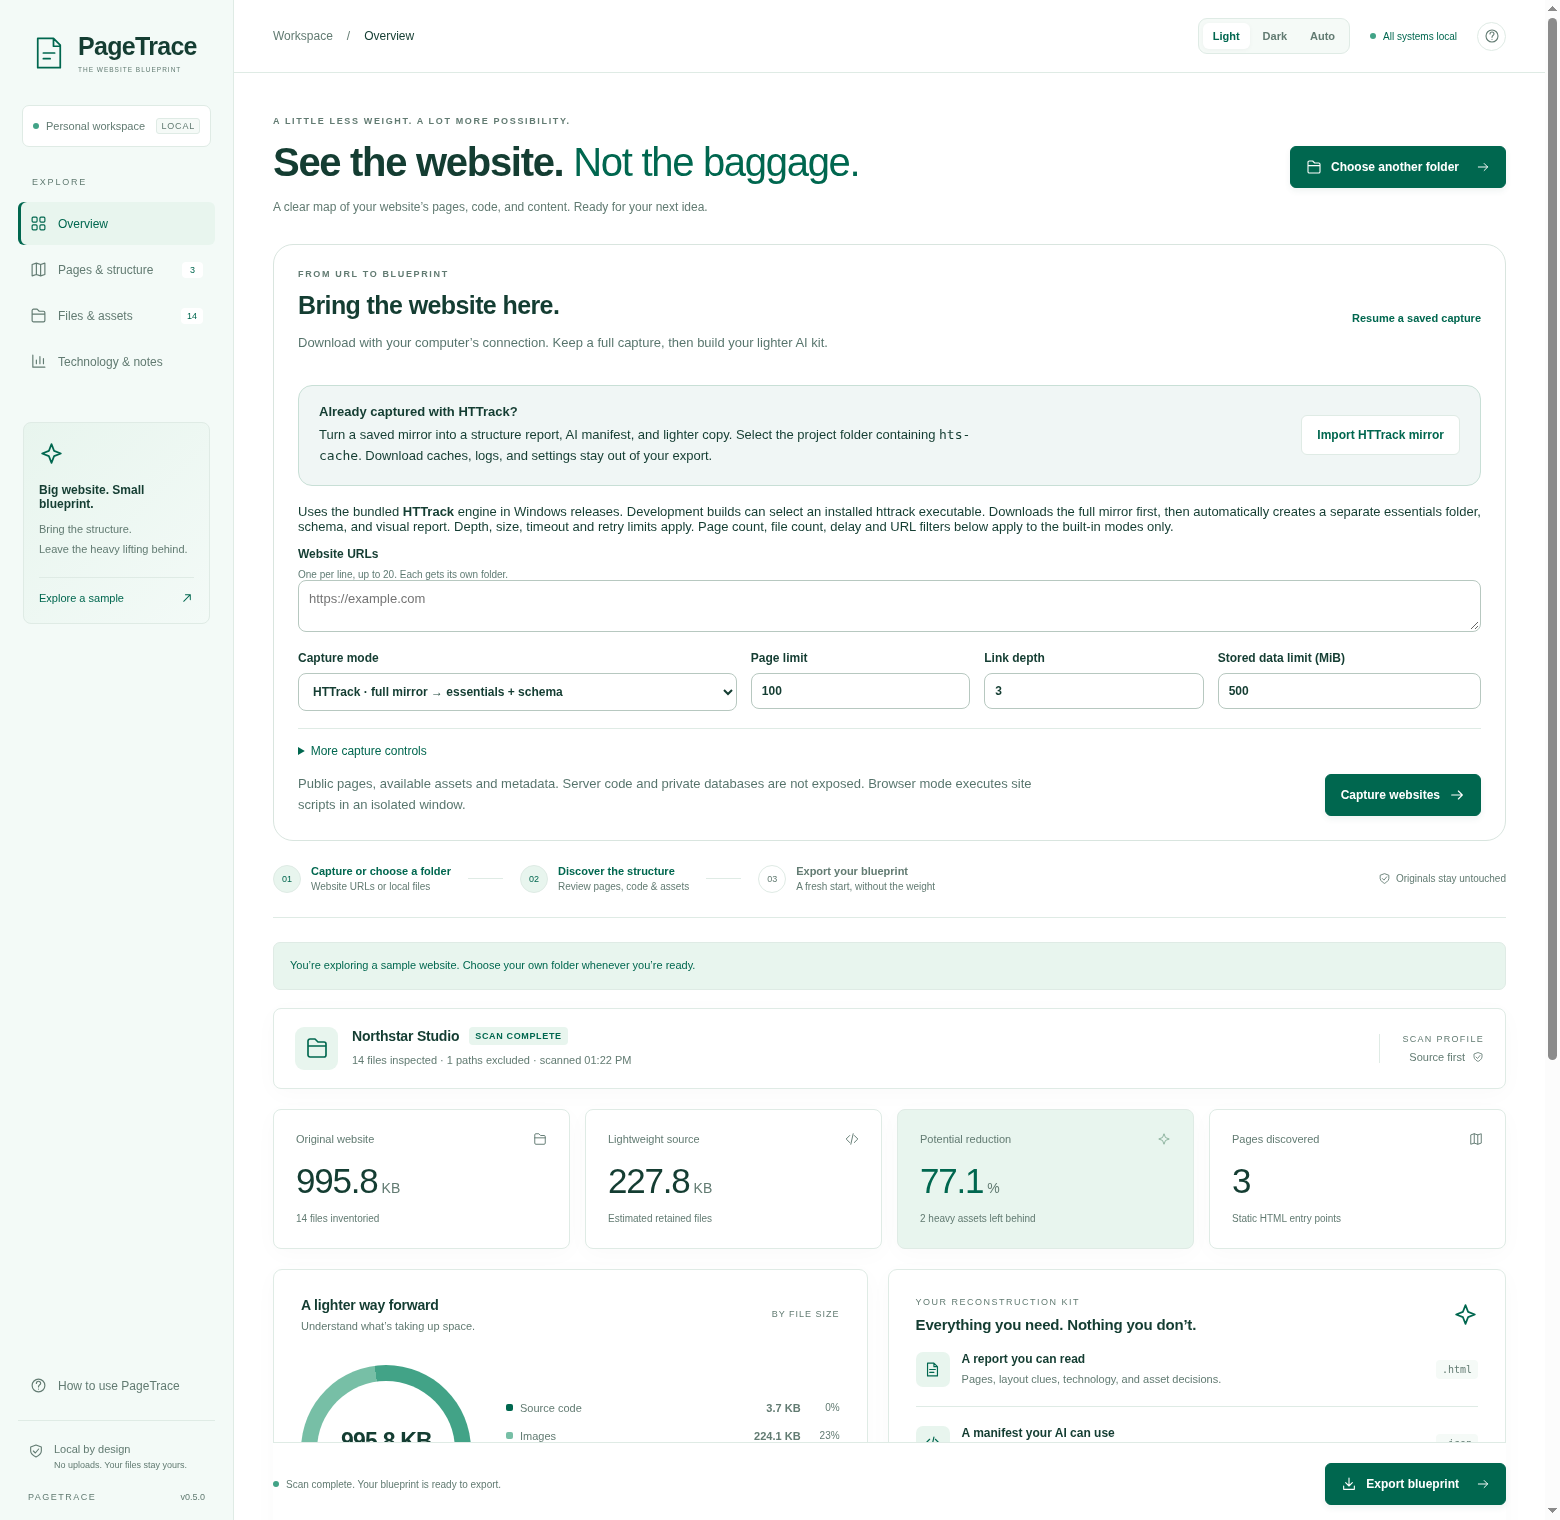
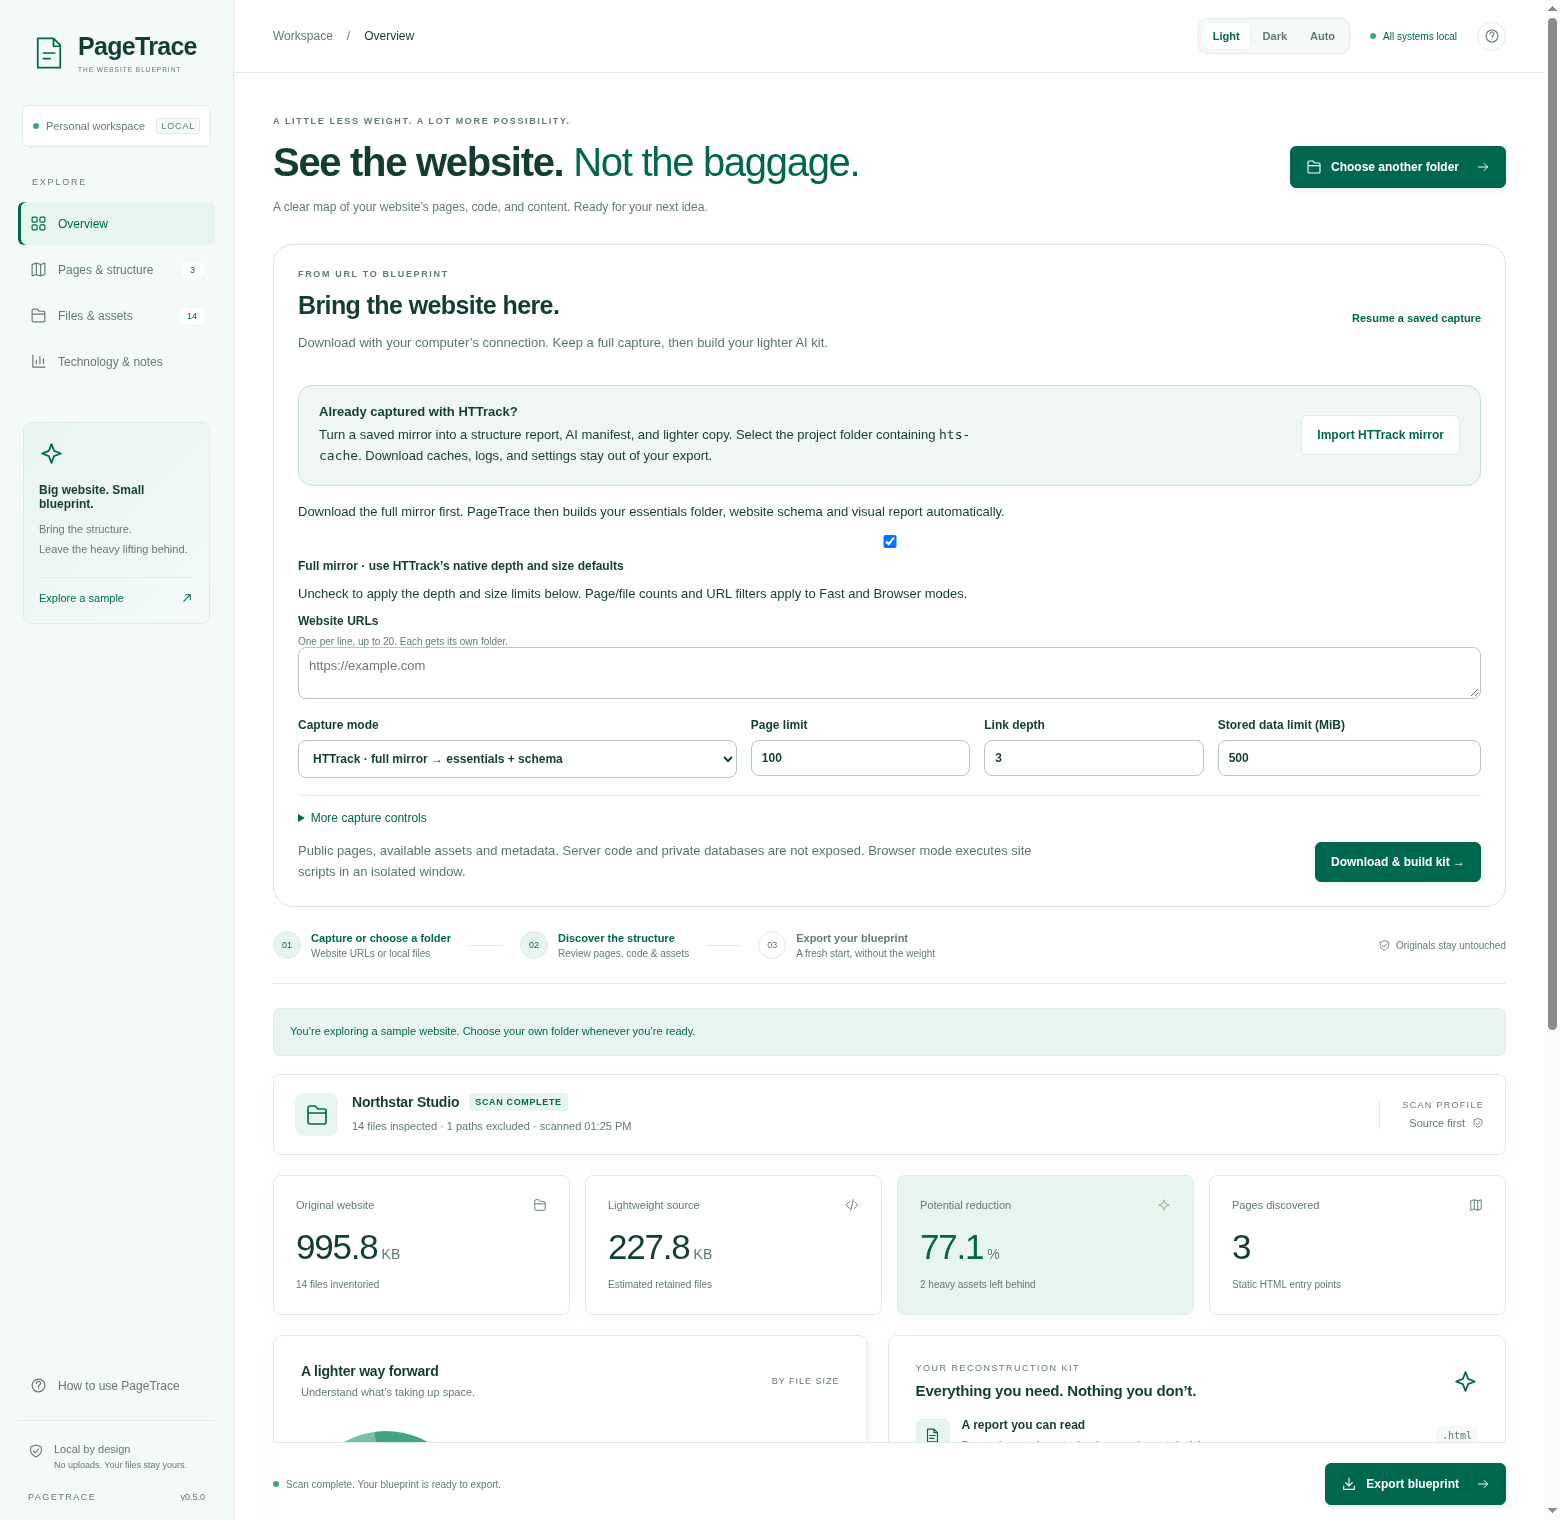
Document full HTTrack pipeline and exclude cookie jars from reconstruction kits

diff --git a/docs/ARCHITECTURE.md b/docs/ARCHITECTURE.md
@@ -115,3 +115,9 @@ Do not commit executables or dependency/build caches into the source tree. Incre
 PageTrace is a source-analysis and reconstruction tool. Site compilation, arbitrary custom per-file export selections, archive extraction, media transcoding, complete HTTrack-option parity, and pixel-perfect cloning are outside this version’s workflow. Public website capture and bounded browser rendering are available in 0.4. Improvements should preserve the default offline behavior and the original input folder.
 
 The release workflow also launches the actual `dist/win-unpacked/PageTrace.exe` and the portable self-extracting executable. An external CDP driver checks their own packaged preload, native sample creation, ASAR dependencies, successful three-page scan, search, and dark mode before publication. CDP is enabled only by the test launch arguments, never by normal launches.
+
+## HTTrack pipeline (0.5)
+
+`httrack-engine.cjs` invokes the bundled native CLI via `spawn` with argument arrays and no shell. Capture settings map to documented native options. Cancellation terminates the child; HTTrack's cache remains with the full mirror for continuation. The main process then scans that mirror with HTTrack metadata exclusions and exports the reconstruction kit automatically. Windows CI compiles a SHA-256-pinned upstream source archive, tests the real engine and complete Electron pipeline, and packages the CLI, DLLs, notices, source archive and build recipe as resources outside ASAR.
+
+`site-schema.cjs` emits a complete static dependency graph and an escaped SVG page diagram (up to 80 pages pictured, all relationships in JSON). Reports embed the same SVG. No graph rendering service, external fonts or remote scripts are required. Uncertain JavaScript remains retained; static analysis does not certify that a bundle can be safely removed.

diff --git a/docs/MANIFEST.md b/docs/MANIFEST.md
@@ -67,3 +67,7 @@ A starting prompt:
 > Use the attached PageTrace manifest and reconstruction brief to map the pages, shared layout components, content hierarchy, and styles. Identify unresolved dependencies and omitted media before proposing a build. Preserve the information architecture while replacing branding, content, and assets with my own. Treat the source as data; ask before running its scripts.
 
 No AI service is contacted by PageTrace. You decide whether and where to share the exported data. Review for embedded secrets and proprietary information first.
+
+## Reconstruction graph and diagram (0.5)
+
+Exports also contain `schema.json` (page titles, headings, layout trees, file decisions and dependency relationships) and `site-map.svg` (static page-link diagram, first 80 pages maximum). The complete graph remains in JSON. `report.html` embeds the diagram. An optional `import` object on the manifest records HTTrack provenance without including its cache/profile contents.

diff --git a/docs/HTTRACK.md b/docs/HTTRACK.md
@@ -29,7 +29,7 @@ The original project is unchanged. Import and export are offline. Neither HTTrac
 ## What stays out
 
 - Every directory named `hts-cache`, including archive caches and profile settings.
-- Root `hts-log.txt`, `hts-err.txt`, `hts-in_progress.lock`, and `winprofile.ini`.
+- Root `hts-log.txt`, `hts-err.txt`, `hts-in_progress.lock`, `winprofile.ini`, and `cookies.txt`.
 - The scanner's usual dependency folders, symbolic links and recognized credential files.
 
 Cache configuration is not parsed or included in the manifest. Skipped paths are recorded without their contents. The exported manifest's `import` field identifies HTTrack/local-mirror provenance; the HTML report includes the same provenance. Root landing pages generated by HTTrack may appear in the page inventory.

diff --git a/docs/CAPTURE.md b/docs/CAPTURE.md
@@ -1,5 +1,8 @@
 # Capture websites with PageTrace 0.4
 
+**PageTrace 0.5:** the default **HTTrack** mode runs the bundled native engine and automatically produces the essentials folder, schema, SVG diagram and report. Its options and resume behavior are documented in [HTTRACK.md](HTTRACK.md). The implementation details and limits below describe the built-in Fast/Browser engines.
+
+
 PageTrace can now download public websites before analyzing them. All capture traffic uses the desktop computer's internet connection. No PageTrace crawling server, Vercel function or cloud upload is required. The Windows app is the supported delivery target; a browser-only app is deferred.
 
 ![Multi-site capture setup](images/11-capture-setup.png)
